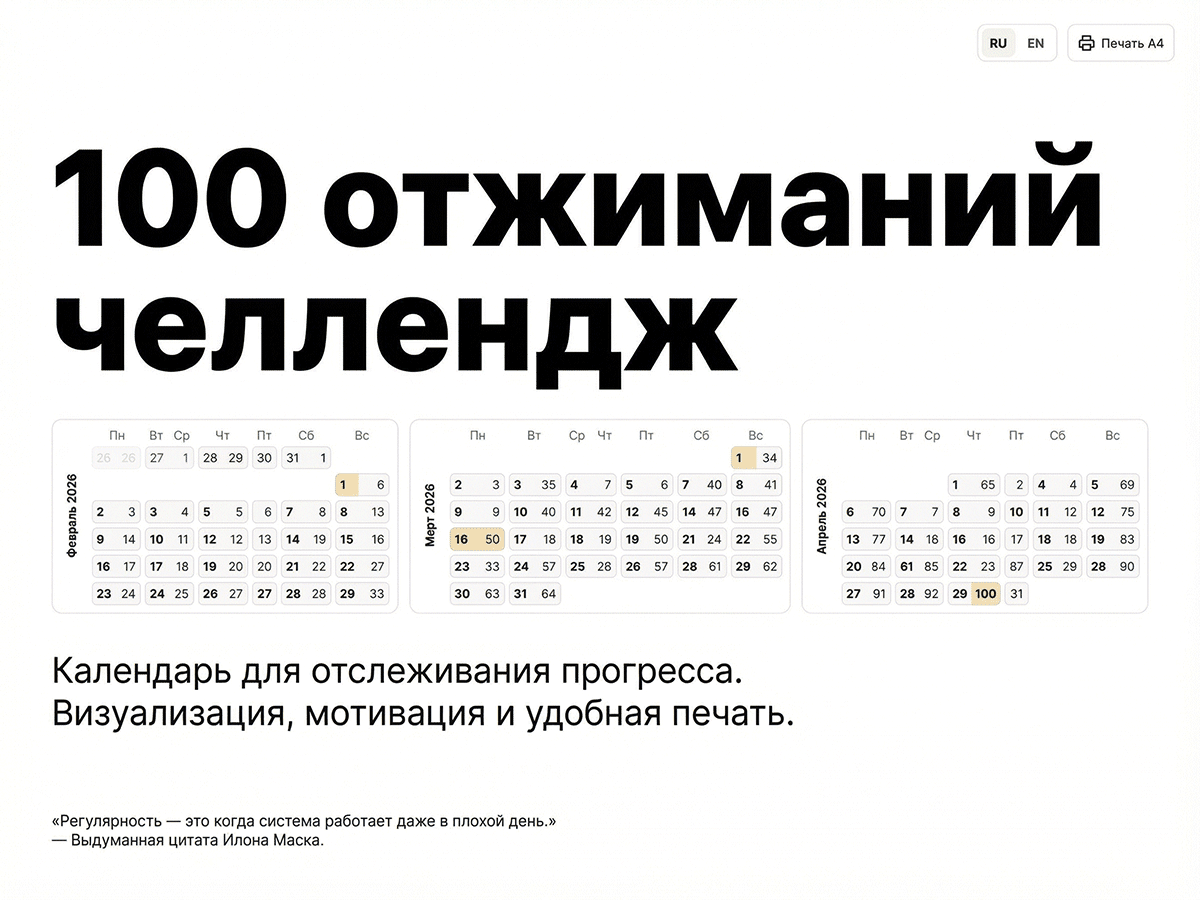
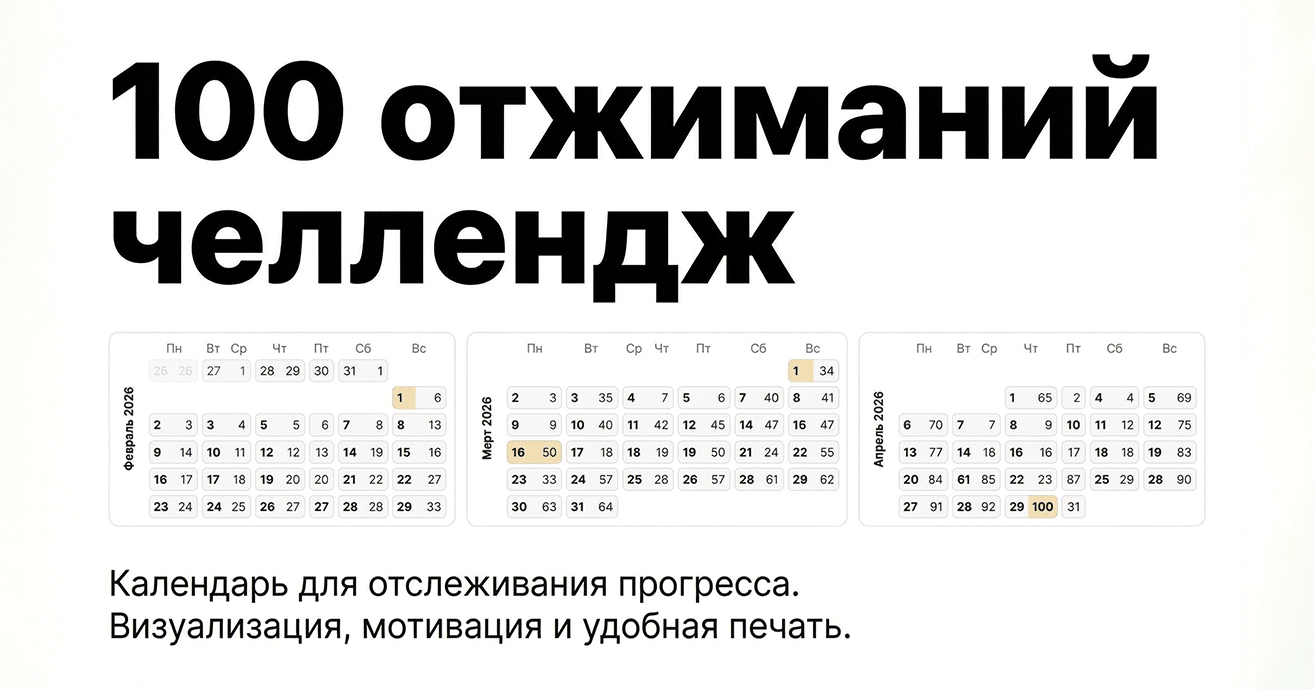
Og image

diff --git a/app/layout.tsx b/app/layout.tsx
@@ -29,7 +29,7 @@ export const metadata: Metadata = {
       {
         url: "/og.png",
         width: 1200,
-        height: 900,
+        height: 630,
         alt: "Календарь 100 отжиманий",
       },
     ],
